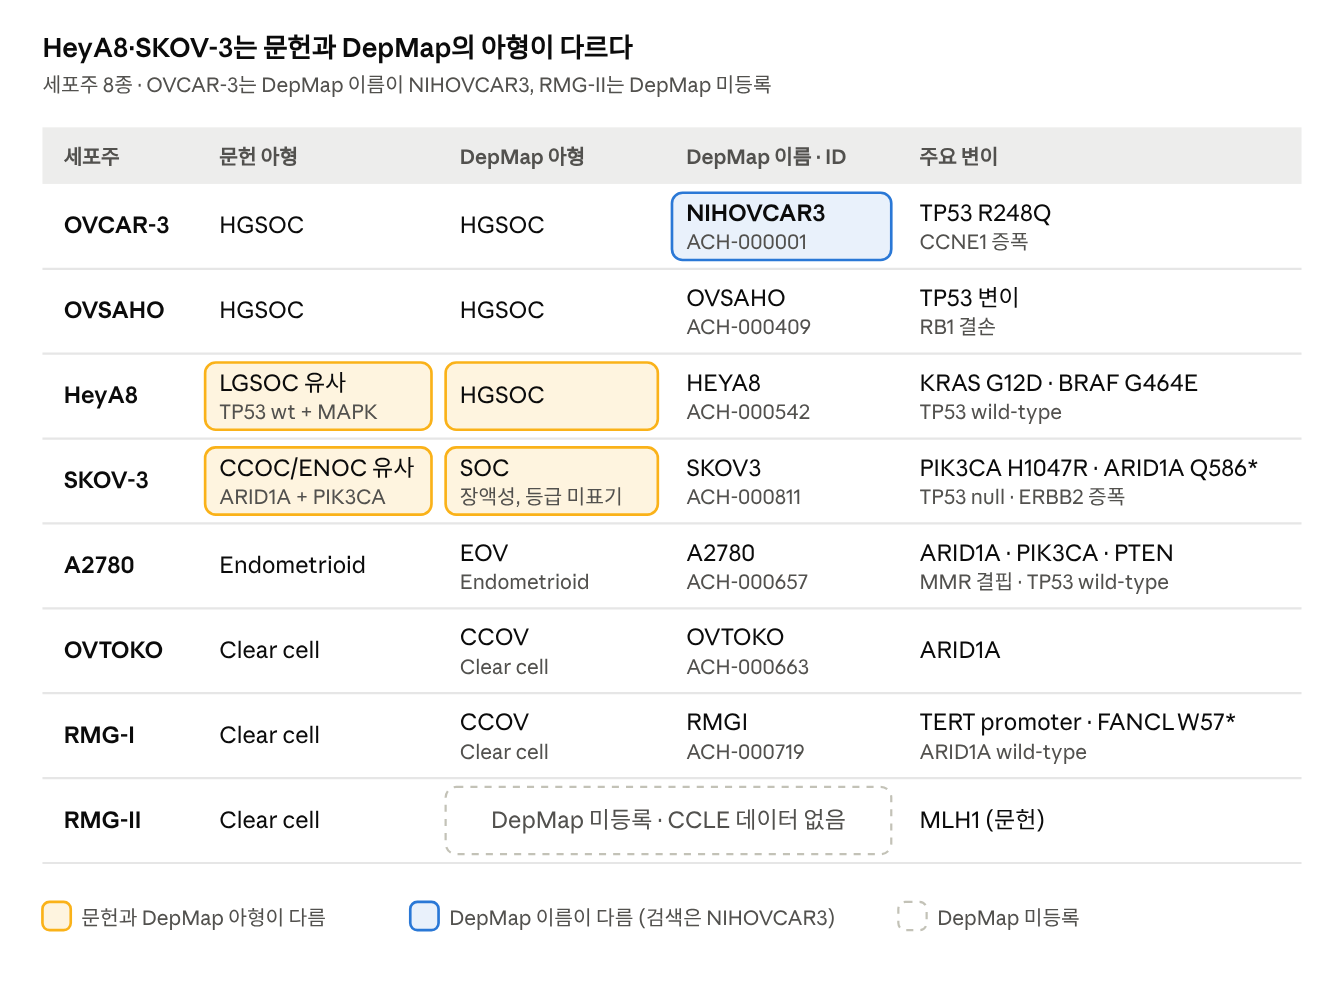
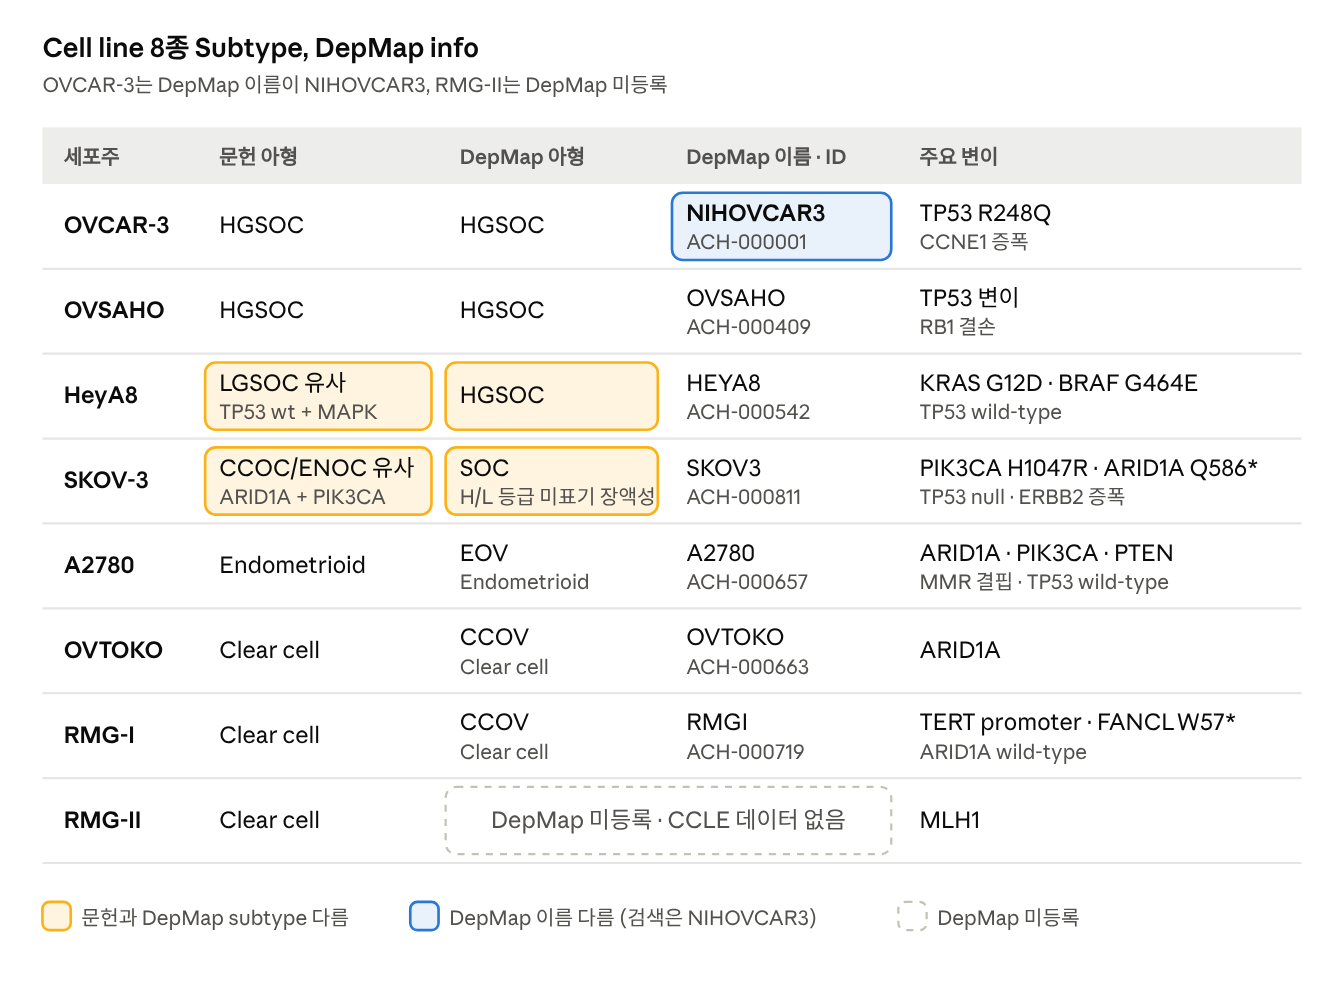
세포주 8종 그림: Docs 위젯 수정 내용을 SVG·Notion에 반영
Claude-Session: https://claude.ai/code/session_01A7ib3VZK7j2jp9Pem35jhT

diff --git a/sync/SYNC.md b/sync/SYNC.md
@@ -38,6 +38,7 @@ Claude Docs 문서: https://claude.ai/code/artifact/fe866b38-7b85-4c83-b3e8-2fc0
 
 | 시각 | 방향 | 내용 |
 | --- | --- | --- |
+| 2026-09-30 14:xx | Docs → Notion | 세포주 8종 위젯의 사용자 수정(제목·부제·SKOV-3 설명·RMG-II 변이·범례 문구)을 SVG로 반영해 Notion 이미지 추가. 이전 이미지는 사용자 삭제 필요 |
 | 2026-09-30 14:xx | Docs → Notion | 난소 종양 분류 위젯(사용자 수정 + 댓글 요청: 가운데 맞춤, Mucinous에 MCAS·RMUG-S, 프로젝트 세포주 굵게)을 SVG로 다시 만들어 Notion 이미지 추가. 이전 이미지(같은 캡션, 두 번째 것)는 캡션 변경이 안 돼 사용자 삭제 필요 |
 | 2026-09-30 14:xx | 양쪽 동시 수정 | 배경 공부 탭에 그림 2개(난소 종양 분류, 세포주 8종 문헌 vs DepMap 아형) 추가, Notion에는 SVG 이미지로 같은 위치에 삽입. 메인 작업 로그 한 줄 추가. 기준본 갱신 |
 | 2026-09-30 13:xx | 양방향 | Notion→Docs: "할 일" 제목을 "9/28-1002"로 바꾸고 굵은 안내 문단 삭제, Background Study 첫 문장, CCLE 사용법 A·B 제목, A-2의 "→ HEYA8: ACH-000542", 배경 공부 "공부 자료". Docs→Notion: 0단계 아형 항목 체크. 양쪽 동시: OVCAR-3 아형 HGSOC 확정. 충돌 없음. Notion 표의 OVCAR-3·RMG2 굵게는 서식 차이라 반영 안 함 |
